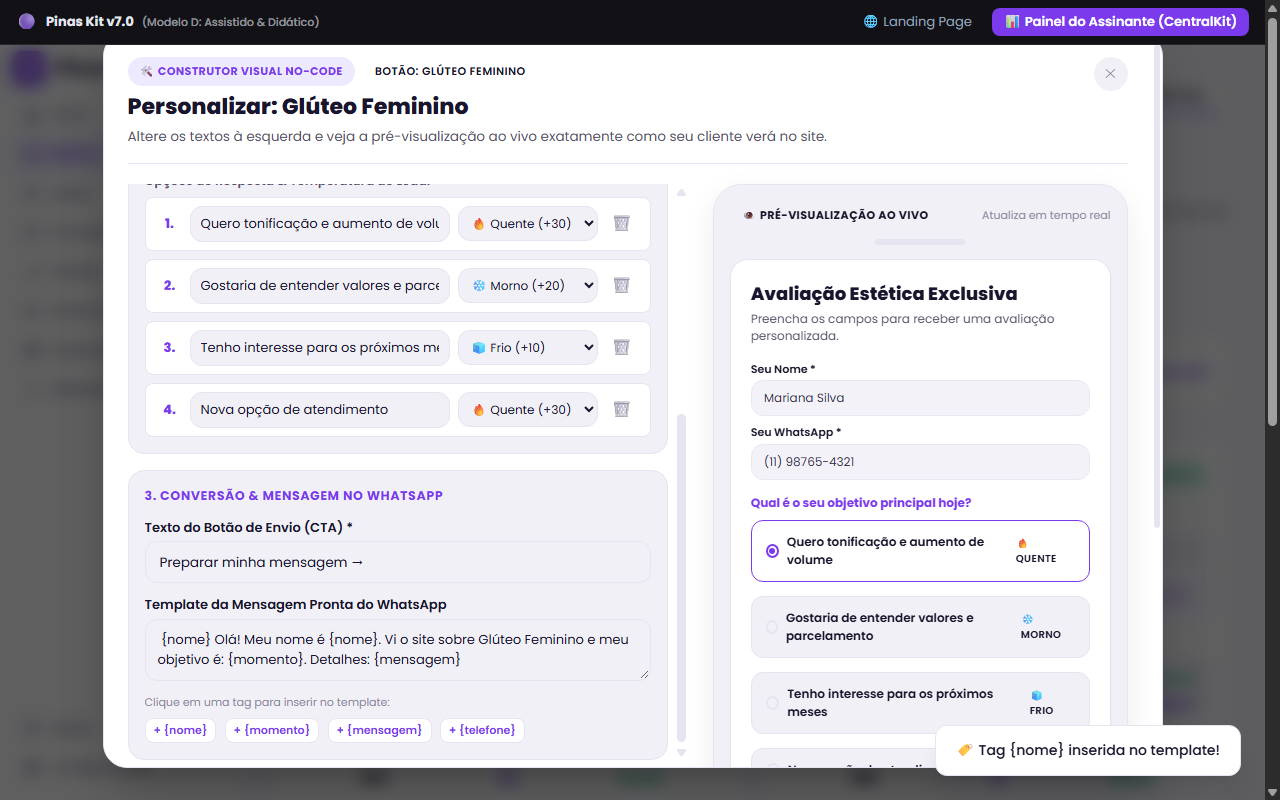
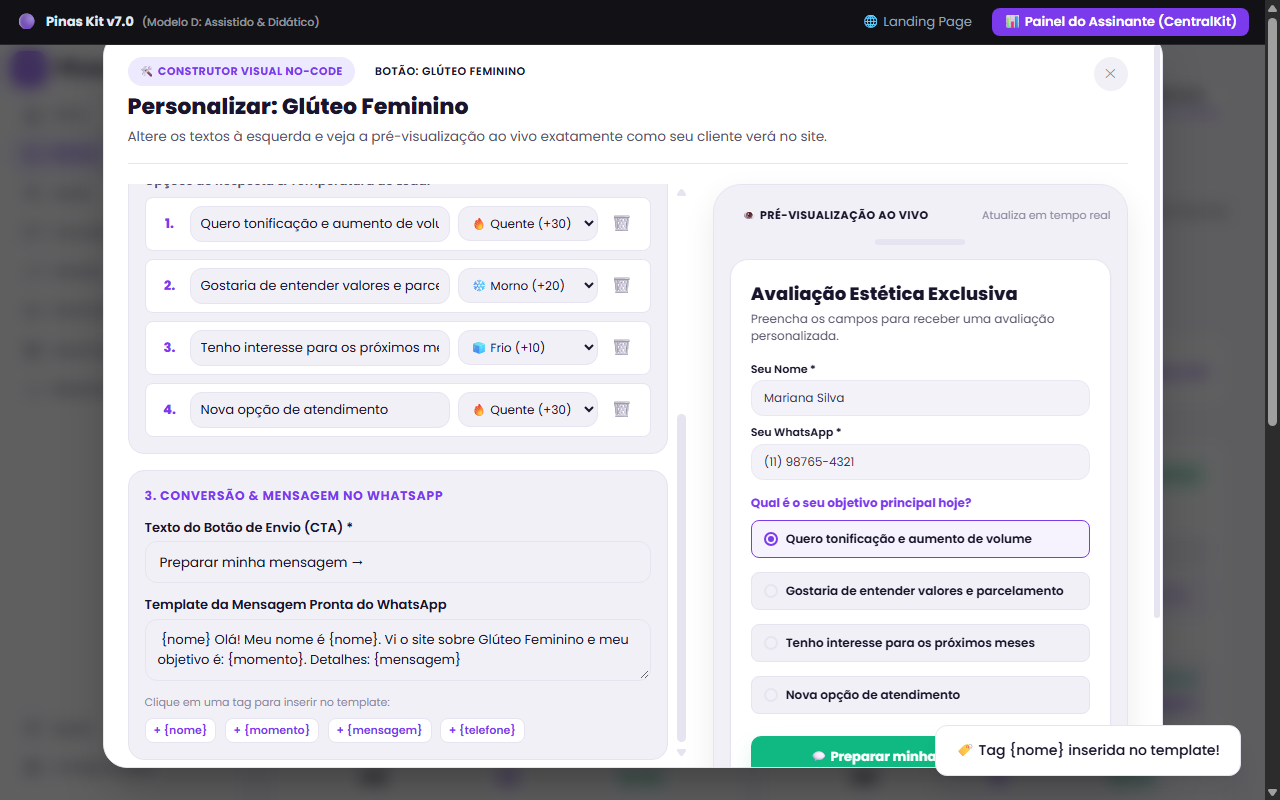
fix: Ocultacao de badges de temperatura para visitantes no formulario e previews, mantendo classificacao restrita ao CRM

Changed region(s): [[0.5938, 0.6562, 0.8438, 0.8125], [0.5625, 0.8438, 0.7812, 0.9688], [0.875, 0.6562, 0.9062, 0.7812]]

diff --git a/src/main.js b/src/main.js
@@ -476,20 +476,13 @@ class PinasKitApp {
       const rows = document.querySelectorAll('.new-btn-option-row');
       container.innerHTML = Array.from(rows).map((row, idx) => {
         const label = row.querySelector('.new-opt-label')?.value.trim() || `Opção ${idx + 1}`;
-        const badge = row.querySelector('.new-opt-badge')?.value || '🔥 Quente';
-        const badgeClass = badge.includes('Quente') ? 'pk-badge-hot' : badge.includes('Frio') ? 'pk-badge-cold' : 'pk-badge-warm';
         return `
-          <div class="pk-preview-option-item ${idx === 0 ? 'is-selected' : ''}" style="display: flex; align-items: center; justify-content: space-between; padding: 10px 12px; border: 1.5px solid ${idx === 0 ? 'var(--pk-primary)' : 'var(--pk-border)'}; border-radius: 8px; background: ${idx === 0 ? 'rgba(124,58,237,0.06)' : 'var(--pk-bg-subtle)'};">
-            <div style="display: flex; align-items: center; gap: 8px;">
-              <div style="width: 14px; height: 14px; border-radius: 50%; border: 2px solid ${idx === 0 ? 'var(--pk-primary)' : 'var(--pk-border)'}; display: grid; place-items: center;">
-                ${idx === 0 ? '<div style="width: 6px; height: 6px; border-radius: 50%; background: var(--pk-primary);"></div>' : ''}
-              </div>
-              <span class="preview-live-opt-label" style="font-size: 12px; font-weight: 600; color: var(--pk-text-primary);">
-                ${label}
-              </span>
+          <div class="pk-preview-option-item ${idx === 0 ? 'is-selected' : ''}" style="display: flex; align-items: center; justify-content: flex-start; gap: 8px; padding: 10px 12px; border: 1.5px solid ${idx === 0 ? 'var(--pk-primary)' : 'var(--pk-border)'}; border-radius: 8px; background: ${idx === 0 ? 'rgba(124,58,237,0.06)' : 'var(--pk-bg-subtle)'};">
+            <div style="width: 14px; height: 14px; border-radius: 50%; border: 2px solid ${idx === 0 ? 'var(--pk-primary)' : 'var(--pk-border)'}; display: grid; place-items: center; flex-shrink: 0;">
+              ${idx === 0 ? '<div style="width: 6px; height: 6px; border-radius: 50%; background: var(--pk-primary);"></div>' : ''}
             </div>
-            <span class="pk-badge ${badgeClass}" style="font-size: 10px; padding: 2px 6px;">
-              ${badge}
+            <span class="preview-live-opt-label" style="font-size: 12px; font-weight: 600; color: var(--pk-text-primary); flex: 1;">
+              ${label}
             </span>
           </div>
         `;
@@ -1045,22 +1038,15 @@ class PinasKitApp {
         } else {
           previewOptionsContainer.innerHTML = Array.from(optionRows).map((row, idx) => {
             const label = row.querySelector('.builder-opt-label')?.value || 'Opção sem título';
-            const badge = row.querySelector('.builder-opt-badge')?.value || '🔥 Quente';
-            const badgeClass = badge.includes('Quente') ? 'pk-badge-hot' : badge.includes('Frio') ? 'pk-badge-cold' : 'pk-badge-warm';
             const isSelected = idx === 0;
 
             return `
-              <div class="pk-preview-option-item ${isSelected ? 'is-selected' : ''}" data-preview-index="${idx}">
-                <div style="display: flex; align-items: center; gap: 8px;">
-                  <div style="width: 14px; height: 14px; border-radius: 50%; border: 2px solid ${isSelected ? 'var(--pk-primary)' : 'var(--pk-border)'}; display: grid; place-items: center;">
-                    ${isSelected ? '<div style="width: 6px; height: 6px; border-radius: 50%; background: var(--pk-primary);"></div>' : ''}
-                  </div>
-                  <span class="preview-opt-text" style="font-size: 12px; font-weight: 600; color: var(--pk-text-primary);">
-                    ${label}
-                  </span>
+              <div class="pk-preview-option-item ${isSelected ? 'is-selected' : ''}" data-preview-index="${idx}" style="display: flex; align-items: center; justify-content: flex-start; gap: 8px; padding: 9px 12px; border: 1.5px solid ${isSelected ? 'var(--pk-primary)' : 'var(--pk-border)'}; border-radius: 8px; background: ${isSelected ? 'rgba(124,58,237,0.06)' : 'var(--pk-bg-subtle)'};">
+                <div style="width: 14px; height: 14px; border-radius: 50%; border: 2px solid ${isSelected ? 'var(--pk-primary)' : 'var(--pk-border)'}; display: grid; place-items: center; flex-shrink: 0;">
+                  ${isSelected ? '<div style="width: 6px; height: 6px; border-radius: 50%; background: var(--pk-primary);"></div>' : ''}
                 </div>
-                <span class="pk-badge ${badgeClass}" style="font-size: 10px; padding: 2px 6px;">
-                  ${badge}
+                <span class="preview-opt-text" style="font-size: 12px; font-weight: 600; color: var(--pk-text-primary); flex: 1;">
+                  ${label}
                 </span>
               </div>
             `;

diff --git a/embed.js b/embed.js
@@ -319,8 +319,9 @@
       all: unset !important;
       display: flex !important;
       align-items: center !important;
-      justify-content: space-between !important;
-      padding: 11px 14px !important;
+      justify-content: flex-start !important;
+      gap: 12px !important;
+      padding: 12px 14px !important;
       border: 1.5px solid #E2E8F0 !important;
       border-radius: 10px !important;
       cursor: pointer !important;
@@ -499,7 +500,7 @@
         <select class="pk-embed-input" id="pk-float-option" style="cursor: pointer;" required>
           ${activeConfig.formConfig.options.map((opt, i) => `
             <option value="${opt.id}" data-score="${opt.score}" data-label="${opt.label}" ${i === 0 ? 'selected' : ''}>
-              ${opt.label} (${opt.badge || ''})
+              ${opt.label}
             </option>
           `).join('')}
         </select>
@@ -606,23 +607,18 @@
           </label>
           <div style="display: flex; flex-direction: column; gap: 8px;">
             ${activeConfig.formConfig.options.map((opt, i) => `
-              <label class="pk-embed-option-card ${i === 0 ? 'is-selected' : ''}" style="all: unset !important; display: flex !important; align-items: center !important; justify-content: space-between !important; padding: 11px 14px !important; border: 1.5px solid ${i === 0 ? '#7C3AED' : '#E2E8F0'} !important; border-radius: 10px !important; cursor: pointer !important; background: ${i === 0 ? 'rgba(124, 58, 237, 0.05)' : '#F8FAFC'} !important; box-sizing: border-box !important; margin: 0 !important; transition: all 150ms ease !important;">
-                <div style="display: flex; align-items: center; gap: 10px; overflow: hidden; flex: 1;">
-                  <input 
-                    type="radio" 
-                    class="pk-embed-radio" 
-                    name="pk-page-option" 
-                    value="${opt.id}" 
-                    data-score="${opt.score}" 
-                    data-label="${opt.label}" 
-                    ${i === 0 ? 'checked' : ''} 
-                    style="all: unset !important; -webkit-appearance: none !important; appearance: none !important; width: 18px !important; min-width: 18px !important; max-width: 18px !important; height: 18px !important; min-height: 18px !important; max-height: 18px !important; border-radius: 50% !important; border: 2px solid ${i === 0 ? '#7C3AED' : '#CBD5E1'} !important; background-color: #FFFFFF !important; margin: 0 !important; padding: 0 !important; display: inline-grid !important; place-content: center !important; flex-shrink: 0 !important; cursor: pointer !important; box-sizing: border-box !important;"
-                  />
-                  <span style="font-size: 13.5px; font-weight: 500; color: #1E293B; line-height: 1.4;">${opt.label}</span>
-                </div>
-                <span style="font-size: 11px; font-weight: 700; padding: 3px 8px; border-radius: 6px; background: #EDE9FE; color: #7C3AED; white-space: nowrap; flex-shrink: 0;">
-                  ${opt.badge || '⭐'}
-                </span>
+              <label class="pk-embed-option-card ${i === 0 ? 'is-selected' : ''}" style="all: unset !important; display: flex !important; align-items: center !important; justify-content: flex-start !important; gap: 12px !important; padding: 12px 14px !important; border: 1.5px solid ${i === 0 ? '#7C3AED' : '#E2E8F0'} !important; border-radius: 10px !important; cursor: pointer !important; background: ${i === 0 ? 'rgba(124, 58, 237, 0.05)' : '#F8FAFC'} !important; box-sizing: border-box !important; margin: 0 !important; transition: all 150ms ease !important;">
+                <input 
+                  type="radio" 
+                  class="pk-embed-radio" 
+                  name="pk-page-option" 
+                  value="${opt.id}" 
+                  data-score="${opt.score}" 
+                  data-label="${opt.label}" 
+                  ${i === 0 ? 'checked' : ''} 
+                  style="all: unset !important; -webkit-appearance: none !important; appearance: none !important; width: 18px !important; min-width: 18px !important; max-width: 18px !important; height: 18px !important; min-height: 18px !important; max-height: 18px !important; border-radius: 50% !important; border: 2px solid ${i === 0 ? '#7C3AED' : '#CBD5E1'} !important; background-color: #FFFFFF !important; margin: 0 !important; padding: 0 !important; display: inline-grid !important; place-content: center !important; flex-shrink: 0 !important; cursor: pointer !important; box-sizing: border-box !important;"
+                />
+                <span style="font-size: 14px; font-weight: 500; color: #1E293B; line-height: 1.4; flex: 1;">${opt.label}</span>
               </label>
             `).join('')}
           </div>

diff --git a/public/embed.js b/public/embed.js
@@ -319,8 +319,9 @@
       all: unset !important;
       display: flex !important;
       align-items: center !important;
-      justify-content: space-between !important;
-      padding: 11px 14px !important;
+      justify-content: flex-start !important;
+      gap: 12px !important;
+      padding: 12px 14px !important;
       border: 1.5px solid #E2E8F0 !important;
       border-radius: 10px !important;
       cursor: pointer !important;
@@ -499,7 +500,7 @@
         <select class="pk-embed-input" id="pk-float-option" style="cursor: pointer;" required>
           ${activeConfig.formConfig.options.map((opt, i) => `
             <option value="${opt.id}" data-score="${opt.score}" data-label="${opt.label}" ${i === 0 ? 'selected' : ''}>
-              ${opt.label} (${opt.badge || ''})
+              ${opt.label}
             </option>
           `).join('')}
         </select>
@@ -606,23 +607,18 @@
           </label>
           <div style="display: flex; flex-direction: column; gap: 8px;">
             ${activeConfig.formConfig.options.map((opt, i) => `
-              <label class="pk-embed-option-card ${i === 0 ? 'is-selected' : ''}" style="all: unset !important; display: flex !important; align-items: center !important; justify-content: space-between !important; padding: 11px 14px !important; border: 1.5px solid ${i === 0 ? '#7C3AED' : '#E2E8F0'} !important; border-radius: 10px !important; cursor: pointer !important; background: ${i === 0 ? 'rgba(124, 58, 237, 0.05)' : '#F8FAFC'} !important; box-sizing: border-box !important; margin: 0 !important; transition: all 150ms ease !important;">
-                <div style="display: flex; align-items: center; gap: 10px; overflow: hidden; flex: 1;">
-                  <input 
-                    type="radio" 
-                    class="pk-embed-radio" 
-                    name="pk-page-option" 
-                    value="${opt.id}" 
-                    data-score="${opt.score}" 
-                    data-label="${opt.label}" 
-                    ${i === 0 ? 'checked' : ''} 
-                    style="all: unset !important; -webkit-appearance: none !important; appearance: none !important; width: 18px !important; min-width: 18px !important; max-width: 18px !important; height: 18px !important; min-height: 18px !important; max-height: 18px !important; border-radius: 50% !important; border: 2px solid ${i === 0 ? '#7C3AED' : '#CBD5E1'} !important; background-color: #FFFFFF !important; margin: 0 !important; padding: 0 !important; display: inline-grid !important; place-content: center !important; flex-shrink: 0 !important; cursor: pointer !important; box-sizing: border-box !important;"
-                  />
-                  <span style="font-size: 13.5px; font-weight: 500; color: #1E293B; line-height: 1.4;">${opt.label}</span>
-                </div>
-                <span style="font-size: 11px; font-weight: 700; padding: 3px 8px; border-radius: 6px; background: #EDE9FE; color: #7C3AED; white-space: nowrap; flex-shrink: 0;">
-                  ${opt.badge || '⭐'}
-                </span>
+              <label class="pk-embed-option-card ${i === 0 ? 'is-selected' : ''}" style="all: unset !important; display: flex !important; align-items: center !important; justify-content: flex-start !important; gap: 12px !important; padding: 12px 14px !important; border: 1.5px solid ${i === 0 ? '#7C3AED' : '#E2E8F0'} !important; border-radius: 10px !important; cursor: pointer !important; background: ${i === 0 ? 'rgba(124, 58, 237, 0.05)' : '#F8FAFC'} !important; box-sizing: border-box !important; margin: 0 !important; transition: all 150ms ease !important;">
+                <input 
+                  type="radio" 
+                  class="pk-embed-radio" 
+                  name="pk-page-option" 
+                  value="${opt.id}" 
+                  data-score="${opt.score}" 
+                  data-label="${opt.label}" 
+                  ${i === 0 ? 'checked' : ''} 
+                  style="all: unset !important; -webkit-appearance: none !important; appearance: none !important; width: 18px !important; min-width: 18px !important; max-width: 18px !important; height: 18px !important; min-height: 18px !important; max-height: 18px !important; border-radius: 50% !important; border: 2px solid ${i === 0 ? '#7C3AED' : '#CBD5E1'} !important; background-color: #FFFFFF !important; margin: 0 !important; padding: 0 !important; display: inline-grid !important; place-content: center !important; flex-shrink: 0 !important; cursor: pointer !important; box-sizing: border-box !important;"
+                />
+                <span style="font-size: 14px; font-weight: 500; color: #1E293B; line-height: 1.4; flex: 1;">${opt.label}</span>
               </label>
             `).join('')}
           </div>

diff --git a/src/components/NewButtonView.js b/src/components/NewButtonView.js
@@ -403,27 +403,16 @@ export function renderNewButtonView(button = null) {
 
                     <div id="preview-live-form-options" style="display: flex; flex-direction: column; gap: 7px;">
                       ${options.map((opt, idx) => `
-                        <div class="pk-preview-option-item ${idx === 0 ? 'is-selected' : ''}" style="display: flex; align-items: center; justify-content: space-between; padding: 10px 12px; border: 1.5px solid ${idx === 0 ? 'var(--pk-primary)' : 'var(--pk-border)'}; border-radius: 8px; background: ${idx === 0 ? 'rgba(124,58,237,0.06)' : 'var(--pk-bg-subtle)'};">
-                          <div style="display: flex; align-items: center; gap: 8px;">
-                            <div style="width: 14px; height: 14px; border-radius: 50%; border: 2px solid ${idx === 0 ? 'var(--pk-primary)' : 'var(--pk-border)'}; display: grid; place-items: center;">
-                              ${idx === 0 ? '<div style="width: 6px; height: 6px; border-radius: 50%; background: var(--pk-primary);"></div>' : ''}
-                            </div>
-                            <span class="preview-live-opt-label" style="font-size: 12px; font-weight: 600; color: var(--pk-text-primary);">
-                              ${opt.label}
-                            </span>
+                        <div class="pk-preview-option-item ${idx === 0 ? 'is-selected' : ''}" style="display: flex; align-items: center; justify-content: flex-start; gap: 8px; padding: 10px 12px; border: 1.5px solid ${idx === 0 ? 'var(--pk-primary)' : 'var(--pk-border)'}; border-radius: 8px; background: ${idx === 0 ? 'rgba(124,58,237,0.06)' : 'var(--pk-bg-subtle)'};">
+                          <div style="width: 14px; height: 14px; border-radius: 50%; border: 2px solid ${idx === 0 ? 'var(--pk-primary)' : 'var(--pk-border)'}; display: grid; place-items: center; flex-shrink: 0;">
+                            ${idx === 0 ? '<div style="width: 6px; height: 6px; border-radius: 50%; background: var(--pk-primary);"></div>' : ''}
                           </div>
-                          <span class="pk-badge ${opt.badge && opt.badge.includes('Quente') ? 'pk-badge-hot' : opt.badge && opt.badge.includes('Frio') ? 'pk-badge-cold' : 'pk-badge-warm'}" style="font-size: 10px; padding: 2px 6px;">
-                            ${opt.badge || '🔥 Quente'}
+                          <span class="preview-live-opt-label" style="font-size: 12px; font-weight: 600; color: var(--pk-text-primary); flex: 1;">
+                            ${opt.label}
                           </span>
                         </div>
                       `).join('')}
                     </div>
-                  </div>
-
-                  <!-- Campo de Mensagem Opcional -->
-                  <div style="margin-bottom: 14px;">
-                    <label style="font-size: 11.5px; font-weight: 600; color: var(--pk-text-muted); display: block; margin-bottom: 3px;">Mensagem adicional (opcional)</label>
-                    <textarea class="pk-input" rows="2" placeholder="Gostaria de agendar para a próxima terça..." disabled style="padding: 8px 10px; font-size: 11.5px; opacity: 0.7; resize: none; background: var(--pk-bg-subtle);"></textarea>
                   </div>
 
                   <!-- Botão CTA no Formulário com Ícone WhatsApp Oficial -->

diff --git a/src/components/FormBuilderModal.js b/src/components/FormBuilderModal.js
@@ -181,27 +181,16 @@ export function renderFormBuilderModal(button = null) {
 
                   <div id="preview-options-container" style="display: flex; flex-direction: column; gap: 6px;">
                     ${options.map((opt, idx) => `
-                      <div class="pk-preview-option-item ${idx === 0 ? 'is-selected' : ''}" data-preview-index="${idx}">
-                        <div style="display: flex; align-items: center; gap: 8px;">
-                          <div style="width: 14px; height: 14px; border-radius: 50%; border: 2px solid ${idx === 0 ? 'var(--pk-primary)' : 'var(--pk-border)'}; display: grid; place-items: center;">
-                            ${idx === 0 ? '<div style="width: 6px; height: 6px; border-radius: 50%; background: var(--pk-primary);"></div>' : ''}
-                          </div>
-                          <span class="preview-opt-text" style="font-size: 12px; font-weight: 600; color: var(--pk-text-primary);">
-                            ${opt.label}
-                          </span>
+                      <div class="pk-preview-option-item ${idx === 0 ? 'is-selected' : ''}" data-preview-index="${idx}" style="display: flex; align-items: center; justify-content: flex-start; gap: 8px; padding: 9px 12px; border: 1.5px solid ${idx === 0 ? 'var(--pk-primary)' : 'var(--pk-border)'}; border-radius: 8px; background: ${idx === 0 ? 'rgba(124,58,237,0.06)' : 'var(--pk-bg-subtle)'};">
+                        <div style="width: 14px; height: 14px; border-radius: 50%; border: 2px solid ${idx === 0 ? 'var(--pk-primary)' : 'var(--pk-border)'}; display: grid; place-items: center; flex-shrink: 0;">
+                          ${idx === 0 ? '<div style="width: 6px; height: 6px; border-radius: 50%; background: var(--pk-primary);"></div>' : ''}
                         </div>
-                        <span class="pk-badge ${opt.badge && opt.badge.includes('Quente') ? 'pk-badge-hot' : opt.badge && opt.badge.includes('Frio') ? 'pk-badge-cold' : 'pk-badge-warm'}" style="font-size: 10px; padding: 2px 6px;">
-                          ${opt.badge || '🔥 Quente'}
+                        <span class="preview-opt-text" style="font-size: 12px; font-weight: 600; color: var(--pk-text-primary); flex: 1;">
+                          ${opt.label}
                         </span>
                       </div>
                     `).join('')}
                   </div>
-                </div>
-
-                <!-- Campo de mensagem extra -->
-                <div style="margin-bottom: 14px;">
-                  <label style="font-size: 11px; font-weight: 600; color: var(--pk-text-muted); display: block; margin-bottom: 3px;">Mensagem adicional (opcional)</label>
-                  <textarea class="pk-input" rows="2" placeholder="Gostaria de agendar para a próxima terça..." disabled style="padding: 8px 10px; font-size: 11px; opacity: 0.7; resize: none; background: var(--pk-bg-subtle);"></textarea>
                 </div>
 
                 <!-- Botão CTA no Preview -->

diff --git a/push-to-github.js b/push-to-github.js
@@ -77,7 +77,7 @@ async function runPush() {
   const commitId = await git.commit({
     fs,
     dir: REPO_DIR,
-    message: 'fix: Reducao dos seletores radio para 18px com reset defensivo contra CSS externo, remocao do campo de mensagem adicional e integracao visual seamless',
+    message: 'fix: Ocultacao de badges de temperatura para visitantes no formulario e previews, mantendo classificacao restrita ao CRM',
     author: {
       name: creds.username,
       email: 'kaue.kfd63@gmail.com'

diff --git a/src/components/QualificationModal.js b/src/components/QualificationModal.js
@@ -68,7 +68,6 @@ export function renderQualificationModal() {
                 ${config.options.map(opt => `
                   <div class="pk-select-option" data-value="${opt.label}" data-score="${opt.score}" data-badge="${opt.badge}">
                     <span>${opt.label}</span>
-                    <span class="pk-badge pk-badge-purple" style="font-size: 10px;">${opt.badge}</span>
                   </div>
                 `).join('')}
               </div>
